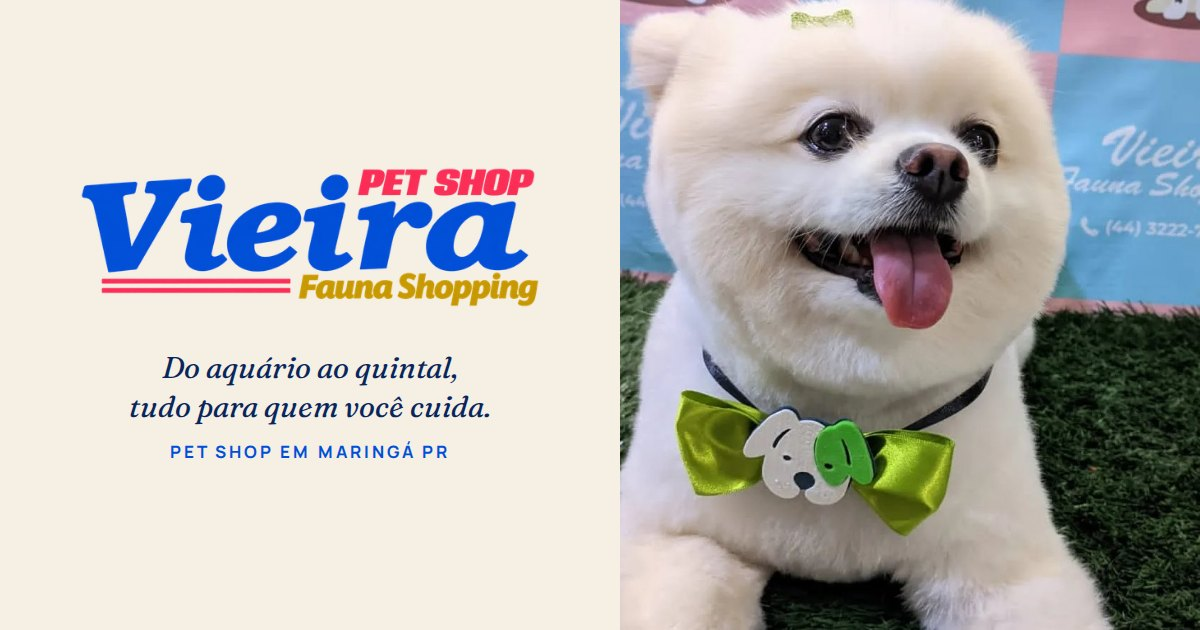
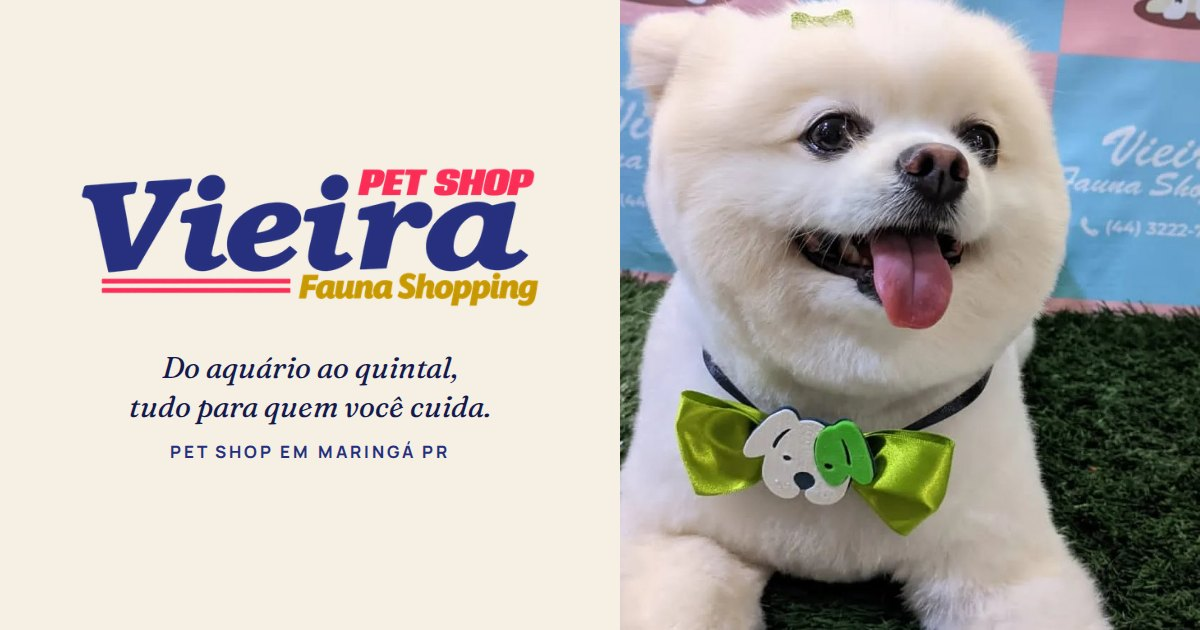
Azul da marca ajustado para #252f7d
Paleta e pixels azuis do logo alinhados ao azul informado pelo cliente.

Changed region(s): [[0.0617, 0.2714, 0.4625, 0.4524], [0.1233, 0.6937, 0.37, 0.7238]]

diff --git a/assets/css/styles.css b/assets/css/styles.css
@@ -48,24 +48,24 @@
 
 :root {
   /* Cores extraídas do logo */
-  --blue: #004fd8;        /* "Vieira": botões, destaques dos títulos, rótulos */
+  --blue: #252f7d;        /* "Vieira": botões, destaques dos títulos, rótulos */
   --pink: #fc2c57;        /* "PET SHOP" e listras: só nos traços dos rótulos */
   --gold: #c79601;        /* "Fauna Shopping": botões da seção escura e números dos passos */
 
   /* Variações e neutros de apoio */
-  --deep: #08265c;        /* azul do logo escurecido: água funda, seções escuras */
-  --blue-700: #003db0;    /* hover dos botões */
-  --blue-100: #e4ecff;    /* azul bem claro: fundo dos ícones */
-  --sky: #cfe0ff;         /* azul claro: destaques sobre o escuro */
+  --deep: #141a4d;        /* azul do logo escurecido: água funda, seções escuras */
+  --blue-700: #1a2260;    /* hover dos botões */
+  --blue-100: #e7e9f6;    /* azul bem claro: fundo dos ícones */
+  --sky: #c9cff0;         /* azul claro: destaques sobre o escuro */
   --gold-300: #e0b22a;
   --gold-800: #7a5b00;    /* dourado escurecido: numeração sobre fundo claro */
   --sand: #f5efe4;        /* papel do guia: fundo claro */
   --white: #fffdf9;
   --line: #e1dccf;
-  --line-dark: #1b3a7a;
-  --ink: #171f2e;
-  --ink-soft: #4e586b;
-  --mist: #b9c8e6;        /* texto secundário sobre o escuro */
+  --line-dark: #2a3270;
+  --ink: #191c2e;
+  --ink-soft: #4f5468;
+  --mist: #b6bbdb;        /* texto secundário sobre o escuro */
   --whatsapp: #25d366;    /* verde oficial do WhatsApp */
 
   --font-display: "Fraunces", "Iowan Old Style", Georgia, serif;
@@ -321,7 +321,7 @@ button {
 }
 
 .btn--outline {
-  border-color: rgba(207, 224, 255, 0.45);
+  border-color: rgba(201, 207, 240, 0.45);
   color: var(--sky);
 }
 
@@ -876,7 +876,7 @@ button {
 .note {
   padding: 22px 24px;
   border-left: 3px solid var(--gold);
-  background: rgba(207, 224, 255, 0.08);
+  background: rgba(201, 207, 240, 0.08);
   border-radius: 0 var(--radius) var(--radius) 0;
 }
 

diff --git a/tools/render-compartilhamento.js b/tools/render-compartilhamento.js
@@ -23,11 +23,11 @@ const photo = fs.readdirSync(path.join(root, 'assets/img')).filter((f) => /^spit
 const card = `<!doctype html><html><head><meta charset="utf-8"><style>
 ${fontFace('Fraunces', 'fraunces-italic-latin.woff2', 'italic')}
 ${fontFace('Manrope', 'manrope-normal-latin.woff2', 'normal')}
-body { margin: 0; width: 1200px; height: 630px; display: grid; grid-template-columns: 620px 580px; background: #f5efe4; color: #171f2e; font-family: Manrope, sans-serif; }
+body { margin: 0; width: 1200px; height: 630px; display: grid; grid-template-columns: 620px 580px; background: #f5efe4; color: #191c2e; font-family: Manrope, sans-serif; }
 .left { display: flex; flex-direction: column; justify-content: center; align-items: center; text-align: center; padding: 0 60px; }
 .logo { width: 460px; height: auto; }
-.tag { margin-top: 40px; font-family: Fraunces, serif; font-style: italic; font-size: 30px; line-height: 1.3; color: #08265c; }
-.sub { margin-top: 14px; font-size: 17px; font-weight: 700; letter-spacing: 0.18em; text-transform: uppercase; color: #004fd8; }
+.tag { margin-top: 40px; font-family: Fraunces, serif; font-style: italic; font-size: 30px; line-height: 1.3; color: #141a4d; }
+.sub { margin-top: 14px; font-size: 17px; font-weight: 700; letter-spacing: 0.18em; text-transform: uppercase; color: #252f7d; }
 .photo { width: 580px; height: 630px; object-fit: cover; object-position: 50% 40%; display: block; }
 </style></head><body>
 <div class="left">

diff --git a/index.html b/index.html
@@ -5,7 +5,7 @@
   <meta name="viewport" content="width=device-width, initial-scale=1">
   <title>Vieira Fauna Shopping | Pet shop em Maringá PR: peixes e aquários sob medida, banho e tosa e veterinário</title>
   <meta name="description" content="Vieira Fauna Shopping, pet shop na Avenida Paraná, 652, em Maringá PR. Especialistas em peixes e aquários sob medida, rações, produtos veterinários, banho e tosa, estética canina e consultório veterinário há mais de 30 anos. WhatsApp (44) 99923-9780.">
-  <meta name="theme-color" content="#004fd8">
+  <meta name="theme-color" content="#252f7d">
 
   <meta property="og:type" content="website">
   <meta property="og:locale" content="pt_BR">

diff --git a/tools/optimize-images.py b/tools/optimize-images.py
@@ -14,7 +14,7 @@ fontes do site, por outro script:
 """
 from pathlib import Path
 
-from PIL import Image
+from PIL import Image, ImageChops
 
 ROOT = Path(__file__).resolve().parent.parent
 SOURCES = ROOT / "materiais-de-origem"
@@ -82,10 +82,29 @@ def build_avatars() -> None:
         print(f"{name}: {im.width}x{im.height}")
 
 
+# Azul do logo. O PNG recebido usa #004fd8, mais vivo que o azul da marca;
+# a pedido do cliente, o azul é ajustado para #252f7d, o mesmo da página.
+BLUE = (37, 47, 125)
+
+
+def recolor_blue(logo: Image.Image) -> Image.Image:
+    """Troca os pixels azuis do logo pela cor BLUE, mantendo a transparência
+    (e, com ela, a suavização das bordas). Rosa e dourado não são tocados."""
+    r, g, b, a = logo.split()
+    # azul: b alto, r e g baixos
+    mask_b = b.point(lambda v: 255 if v > 110 else 0)
+    mask_r = r.point(lambda v: 255 if v < 110 else 0)
+    mask_g = g.point(lambda v: 255 if v < 150 else 0)
+    is_blue = ImageChops.multiply(ImageChops.multiply(mask_b, mask_r), mask_g)
+    solid = Image.new("RGBA", logo.size, BLUE + (0,))
+    solid.putalpha(a)
+    return Image.composite(solid, logo, is_blue)
+
+
 def build_logo() -> None:
     """O logo veio em PNG de 2172x724 px, com fundo transparente. O script só
     recorta a margem vazia e gera as larguras usadas na página."""
-    logo = Image.open(LOGO_SRC).convert("RGBA")
+    logo = recolor_blue(Image.open(LOGO_SRC).convert("RGBA"))
     box = logo.getchannel("A").point(lambda v: 255 if v > 20 else 0).getbbox()
     margin = 8
     mark = logo.crop((
@@ -107,7 +126,7 @@ def build_logo() -> None:
     v.putalpha(alpha)
     v = v.crop(alpha.point(lambda a: 255 if a > 20 else 0).getbbox())
     for name, size in (("favicon-32", 32), ("apple-touch-icon", 180), ("icon-192", 192)):
-        tile = Image.new("RGBA", (512, 512), (245, 239, 228, 255))
+        tile = Image.new("RGBA", (512, 512), (245, 239, 228, 255))  # fundo claro da página
         scale = 400 / max(v.width, v.height)
         fitted = v.resize((round(v.width * scale), round(v.height * scale)), Image.LANCZOS)
         tile.alpha_composite(fitted, ((512 - fitted.width) // 2, (512 - fitted.height) // 2))

diff --git a/README.md b/README.md
@@ -157,8 +157,15 @@ Observações:
 
 O logo chegou depois do início do projeto, em PNG de 2172 x 724 px com fundo
 transparente e bordas limpas: "Vieira" em azul, "PET SHOP" e duas listras em
-rosa, "Fauna Shopping" em dourado. O script só recorta a margem vazia e gera
-as larguras de 560 e 280 px. Como o logo é largo, no cabeçalho ele tem 58 px
+rosa, "Fauna Shopping" em dourado. O script recorta a margem vazia e gera as
+larguras de 560 e 280 px.
+
+**Azul ajustado.** O PNG recebido tem o azul em `#004FD8`, mais vivo que o
+azul da marca. A pedido do cliente, o script troca os pixels azuis por
+`#252F7D` (o mesmo azul da página), mantendo a transparência das bordas; rosa
+e dourado não são tocados. Para voltar ao azul do arquivo, mude `BLUE` em
+`tools/optimize-images.py` e rode o script. O original em
+`materiais-de-origem/logo/` continua intacto. Como o logo é largo, no cabeçalho ele tem 58 px
 de altura no desktop, 54 px no celular e 44 px em telas de até 359 px.
 
 Os ícones do site (favicon e ícone de atalho) usam só o "V" azul, recortado
@@ -224,16 +231,16 @@ O logo tem três cores vivas, uma por palavra.
 
 | Token | Cor | Origem |
 | --- | --- | --- |
-| `--blue` | `#004FD8` | "Vieira": botões, destaques dos títulos, rótulos, ícones |
+| `--blue` | `#252F7D` | "Vieira" (azul da marca, informado pelo cliente): botões, destaques dos títulos, rótulos, ícones |
 | `--pink` | `#FC2C57` | "PET SHOP" e as listras: só nas duas listras dos rótulos de seção |
 | `--gold` | `#C79601` | "Fauna Shopping": botão da seção escura, números dos passos, listras dos rótulos sobre o escuro |
-| `--deep` | `#08265C` | azul do logo escurecido: seção "Na água" e chamada final |
-| `--blue-700` | `#003DB0` | hover dos botões |
-| `--blue-100`, `--sky` | `#E4ECFF`, `#CFE0FF` | azul clareado: fundo dos ícones e destaques sobre o escuro |
+| `--deep` | `#141A4D` | azul da marca escurecido: seção "Na água", chamada final e títulos |
+| `--blue-700` | `#1A2260` | hover dos botões |
+| `--blue-100`, `--sky` | `#E7E9F6`, `#C9CFF0` | azul clareado: fundo dos ícones e destaques sobre o escuro |
 | `--gold-800` | `#7A5B00` | dourado escurecido: numeração "Fig." e do índice sobre fundo claro |
 | `--sand`, `--white` | `#F5EFE4`, `#FFFDF9` | papel do guia: fundos claros, alternados |
-| `--ink`, `--ink-soft` | `#171F2E`, `#4E586B` | textos sobre fundo claro |
-| `--mist` | `#B9C8E6` | texto secundário sobre o escuro |
+| `--ink`, `--ink-soft` | `#191C2E`, `#4F5468` | textos sobre fundo claro |
+| `--mist` | `#B6BBDB` | texto secundário sobre o escuro |
 | `--whatsapp` | `#25D366` | verde oficial do WhatsApp, usado só no botão flutuante |
 
 Como as cores foram usadas: o azul é a cor de ação e de destaque; o dourado
@@ -306,6 +313,7 @@ verificado se o número responde no WhatsApp.
 | --- | --- |
 | Versão inicial da página, com marca provisória | todos |
 | Logo recebido: paleta refeita a partir dele, logo no cabeçalho e no rodapé, ícones a partir do "V" | `index.html`, `styles.css`, `tools/`, `assets/img` |
+| Azul da marca definido pelo cliente como `#252F7D`: paleta e azul do logo ajustados | `styles.css`, `tools/optimize-images.py`, `assets/img` |
 
 ## Créditos e licenças
 
